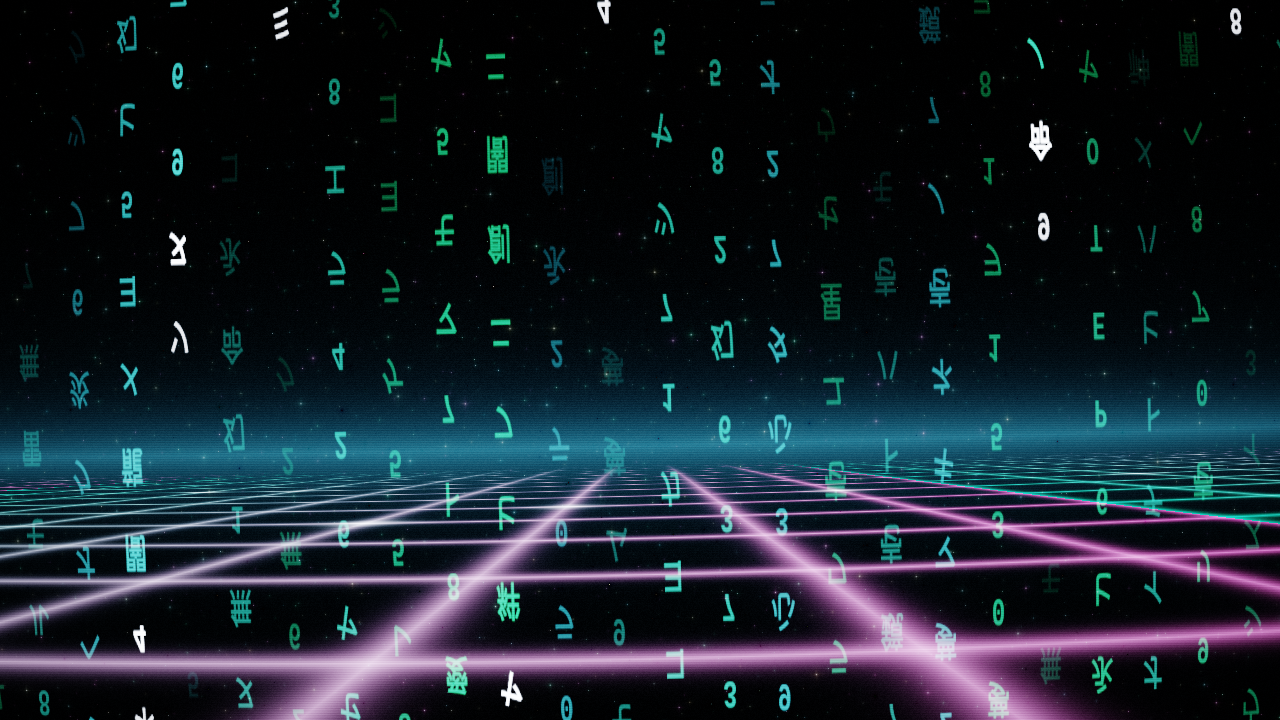
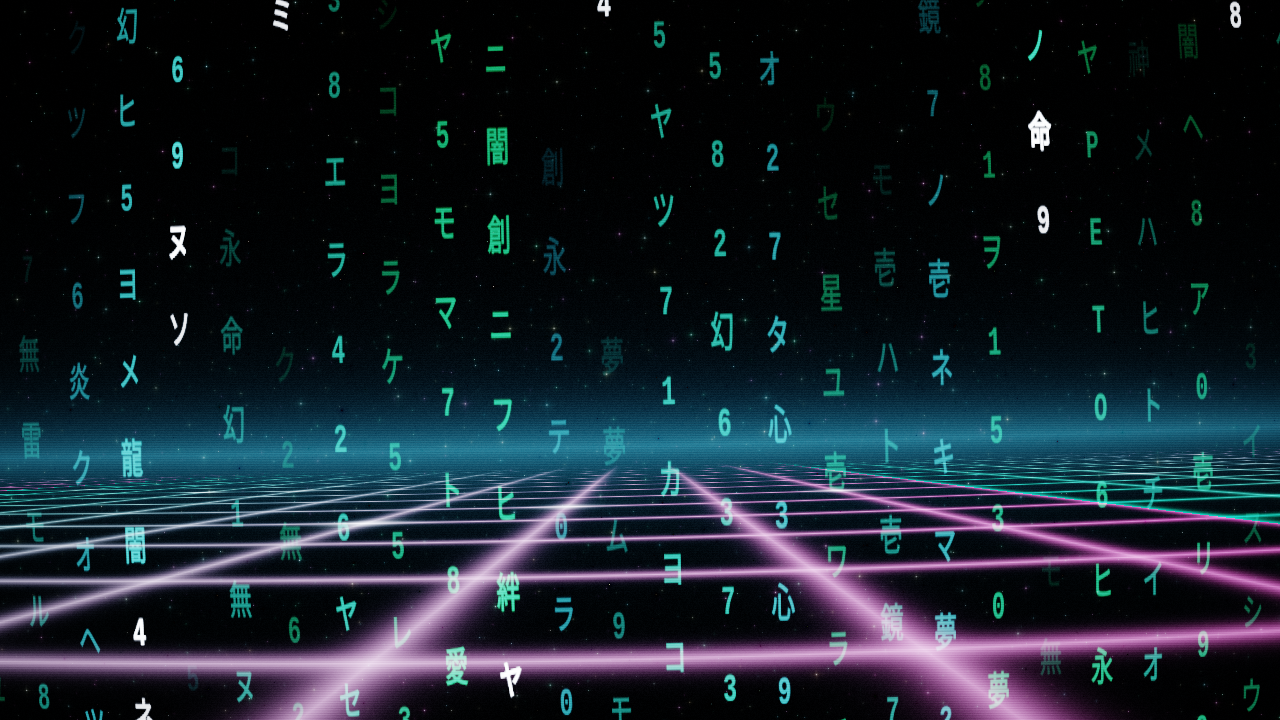
fix(matrix-saga): orient characters right-side up in green matrix rain scene
- Invert Y coordinate calculation in char_uv for Scene 1 sky rain so glyphs sample the font atlas correctly and render right-side up
- Fix vertical reading order for deciphered words (e.g. VALIKA) so letters read downwards from top to bottom
- Recompile matrix-saga WebAssembly binary
- Regenerate matrix-saga landscape card screenshot and mobile preview GIF

diff --git a/src/shaders_matrix_saga.rs b/src/shaders_matrix_saga.rs
@@ -251,7 +251,7 @@ vec3 render_scene1_gateway(vec2 uv, float t) {
     float pad_y = 0.14;
     vec2 char_uv = vec2(
         (cell_fx - pad_x) / (1.0 - 2.0 * pad_x),
-        (cell_fy - pad_y) / (1.0 - 2.0 * pad_y)
+        (1.0 - cell_fy - pad_y) / (1.0 - 2.0 * pad_y)
     );
     
     float char_mask = smoothstep(0.0, 0.12, char_uv.x) * (1.0 - smoothstep(0.88, 1.0, char_uv.x))
@@ -270,7 +270,7 @@ vec3 render_scene1_gateway(vec2 uv, float t) {
     int word_start = int(mod(col_h * 11.0, 24.0 - float(word_len)));
 
     if (col_has_word && row_in_block >= word_start && row_in_block < word_start + word_len) {
-        int pos = row_in_block - word_start;
+        int pos = (word_start + word_len - 1) - row_in_block;
         glyph = get_intended_word_glyph(word_id, pos);
         is_intended_word = true;
     } else {
